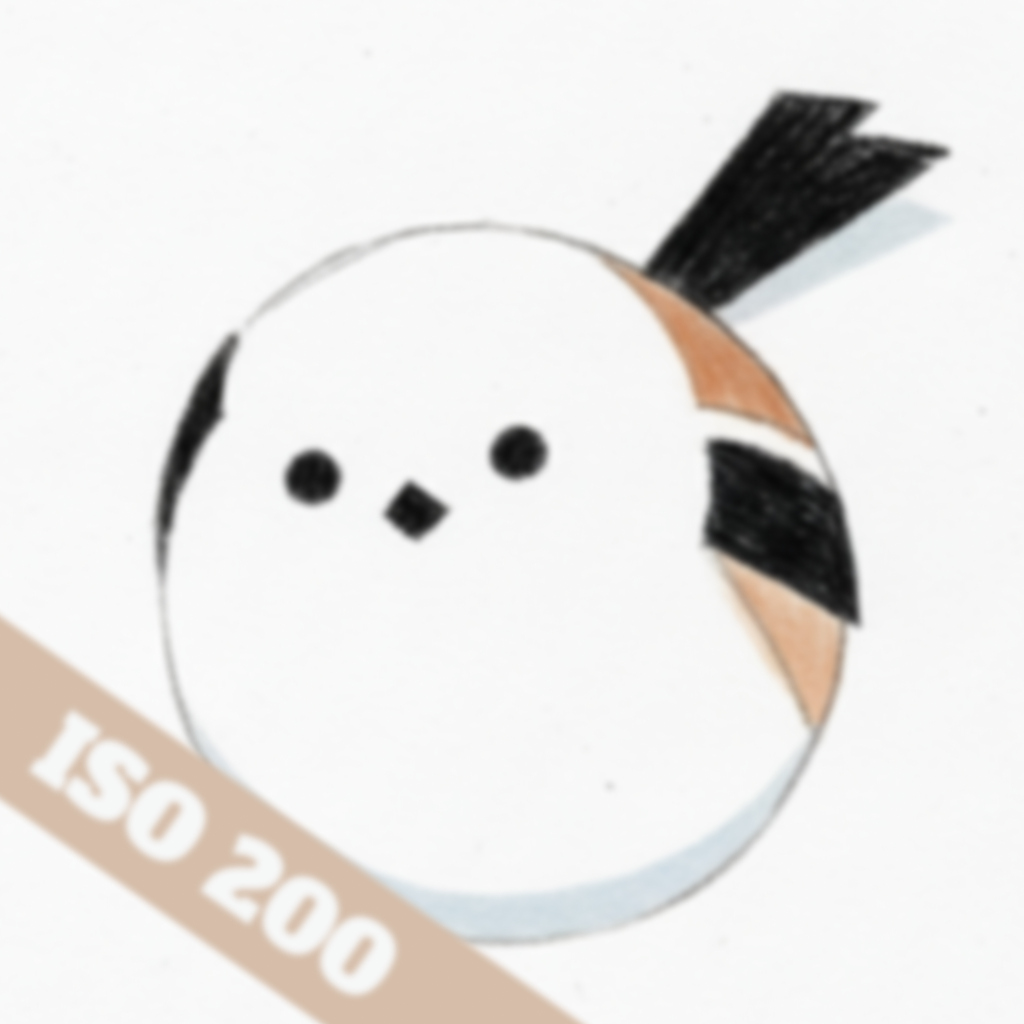
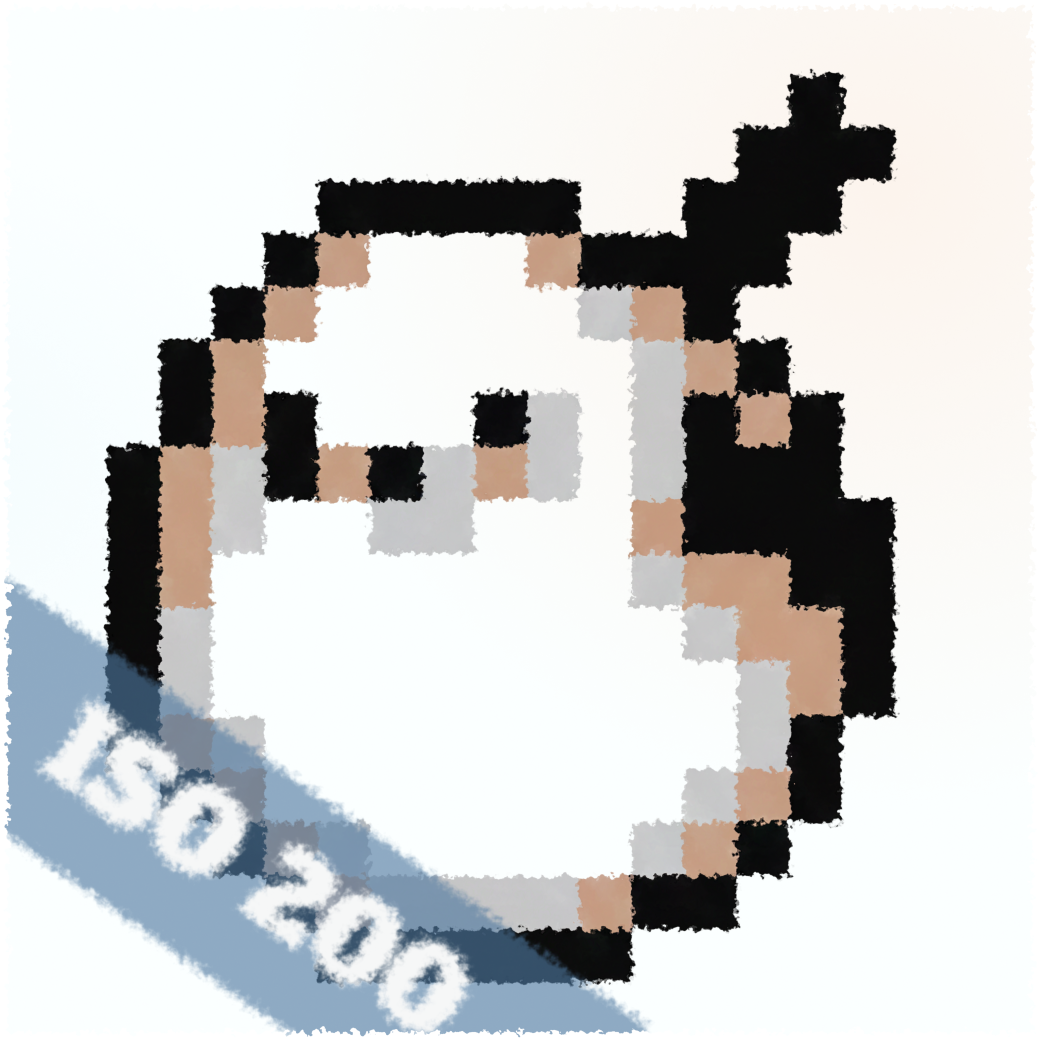
0.0.1 (Infrastructure)
- Update icon

diff --git a/doc/Roadmap.md b/doc/Roadmap.md
@@ -1,0 +1,48 @@
+# 🗺 m43x2 Project Roadmap
+
+This document outlines the development phases of the **m43x2** mobile app. Our mission is to celebrate the Micro Four Thirds heritage through a blend of technical precision and hand-drawn art.
+
+## 🟢 Phase 1: Foundation (The MVP)
+
+*Focus: Core data structures and basic photography tools.*
+
+* [x] **Camera Wiki**: Implement the `CameraWikiScreen` using `FlashList`.
+* [x] **EXIF Engine**: Build a utility to parse image metadata (ISO, Focal Length, Aperture).
+* [x] **Smart Border (V1)**: A basic canvas to add a white border with text (Model Name & 2x focal length).
+* [ ] **Asset Library**: Initial set of hand-drawn icons for PEN and OM-D series.
+
+## 🟡 Phase 2: User Experience (The Polish)
+
+*Focus: Making the app "smart" and personal.*
+
+* [ ] **The Backpack**: Persistent storage (Zustand + AsyncStorage) for "My Cameras".
+* [ ] **Auto-Match Logic**: Automatically link imported photos to the Wiki database via EXIF tags.
+* [ ] **Dynamic UI**: UI themes that change colors based on the camera's `PrimaryColor`.
+* [ ] **Enhanced Wiki**: Detailed "Wikipedia-style" views for each camera with `AdvancedSpecs`.
+* [ ] **Weather Integration**: "BeforeDark" widget showing golden hour and local weather.
+
+## 🟠 Phase 3: Creative Tools
+
+*Focus: Advanced image processing and storytelling.*
+
+* [ ] **Live Preview Editor**: Real-time border adjustment (Ratio, Width, Padding) using **RN Skia**.
+* [ ] **Recipes**: A section to store and share custom JPEG color settings.
+* [ ] **Equivalence Calculator**: Tool to compare M43 depth-of-field and reach with Full Frame.
+* [ ] **Hand-drawn Overlays**: Artistic sticker packs
+
+## 🔴 Phase 4: Community & Beyond (Open Source)
+
+*Focus: Scaling and collaborative data.*
+
+* [ ] **Recipe Export**: Export color recipes as beautiful, shareable cards.
+* [ ] **Community Contributions**: Standardized PR process for users to add their own camera Wiki entries.
+* [ ] **Localization**: English, Chinese, and Japanese support.
+
+---
+
+### 💡 Tips for managing this:
+
+* **GitHub Issues**: Convert each bullet point above into a GitHub Issue. It makes your project look "alive" to potential contributors.
+* **GitHub Projects**: Use a **Kanban Board** to move these items from "Todo" to "Done".
+
+**Would you like me to help you write the `README.md` now, or should we focus on building the "Camera Detail" screen for your Wiki?**
